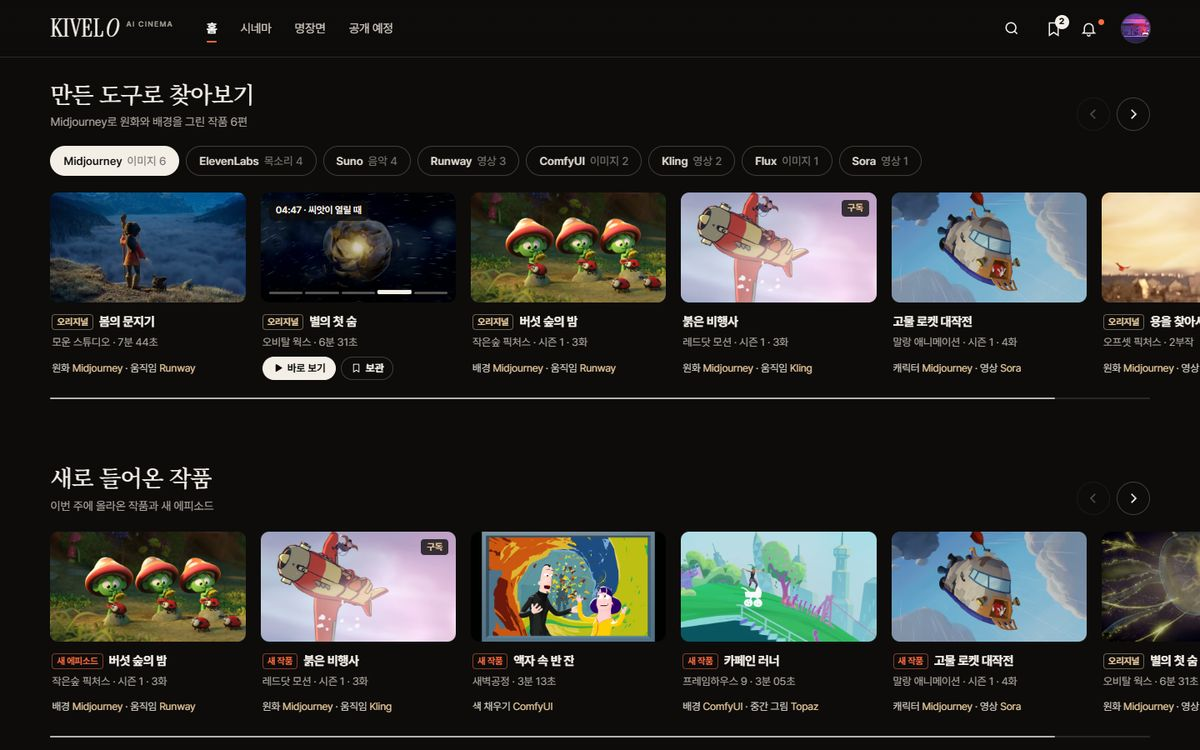
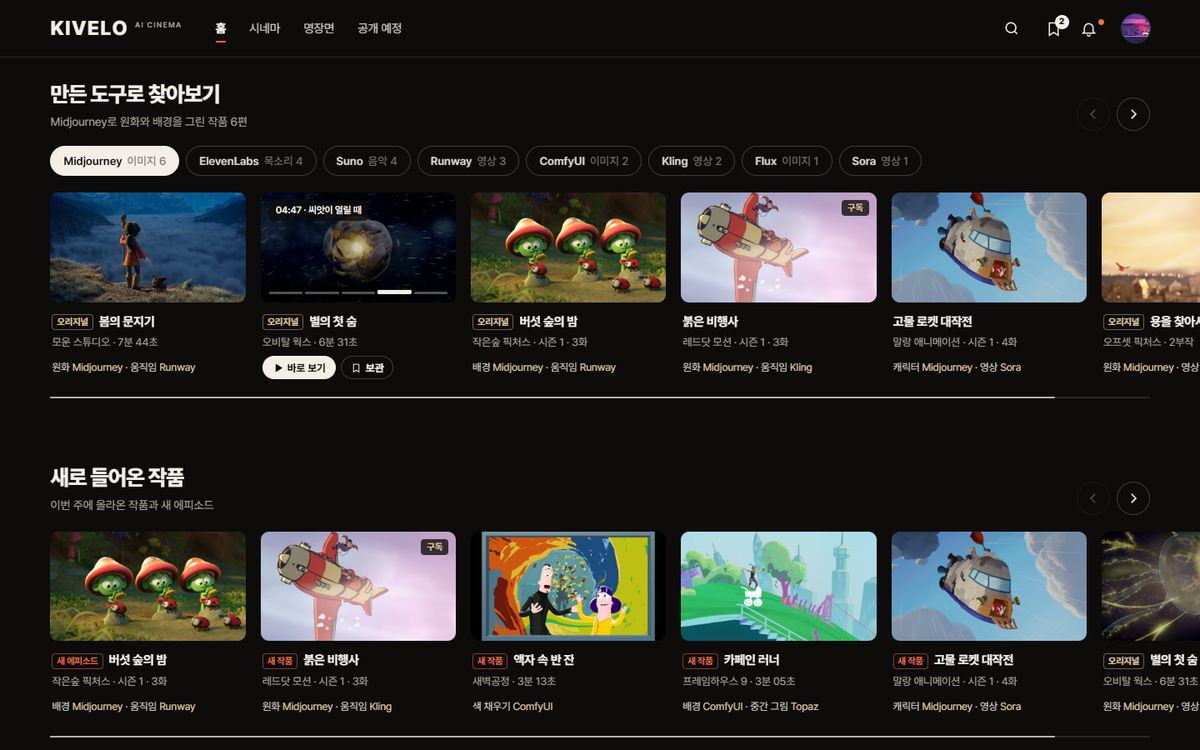
1안 글씨체를 고딕으로 바꾸고 만든 방식으로 고르기 구간을 뺌

diff --git a/a/a.css b/a/a.css
@@ -12,8 +12,6 @@
   --cream: #e6dccb;
   --gold: #e6c79a;
   --free: #58c27d;
-  --serif: "Instrument Serif", "Noto Serif KR", serif;
-  --kserif: "Noto Serif KR", "Instrument Serif", serif;
   --sans: "Pretendard Variable", Pretendard, -apple-system, BlinkMacSystemFont, "Apple SD Gothic Neo", "Malgun Gothic", sans-serif;
   --pad: clamp(20px, 4.2vw, 64px);
   --gap: 18px;
@@ -34,9 +32,9 @@ svg { display: block; }
 
 .nav { position: fixed; top: 0; left: 0; right: 0; z-index: 50; display: flex; align-items: center; gap: 40px; height: 68px; padding: 0 var(--pad); background: linear-gradient(180deg, rgba(13, 12, 11, .78), rgba(13, 12, 11, 0)); transition: background-color .45s, box-shadow .45s; }
 .nav.solid { background-color: var(--bg); box-shadow: 0 1px 0 var(--line); }
-.logo { font-family: var(--serif); font-size: 30px; letter-spacing: .02em; line-height: 1; display: flex; align-items: baseline; gap: 2px; flex: none; }
-.logo em { font-style: italic; }
-.logo sup { font-family: var(--sans); font-size: 9px; letter-spacing: .14em; font-weight: 600; color: var(--mute); margin-left: 6px; transform: translateY(-12px); }
+.logo { font-family: var(--sans); font-size: 24px; font-weight: 800; letter-spacing: .05em; line-height: 1; display: flex; align-items: baseline; gap: 0; flex: none; }
+.logo em { font-style: normal; }
+.logo sup { font-family: var(--sans); font-size: 9px; letter-spacing: .14em; font-weight: 600; color: var(--mute); margin-left: 8px; transform: translateY(-9px); }
 .menu { position: relative; display: flex; gap: 28px; font-size: 14.5px; }
 .menu a { padding: 10px 0; color: #cfc8bd; transition: color .2s; }
 .menu a:hover { color: #fff; }
@@ -105,10 +103,10 @@ svg { display: block; }
 .label-no { display: flex; align-items: center; gap: 10px; font-size: 13px; color: var(--mute); letter-spacing: .02em; }
 .label-no .live { width: 7px; height: 7px; border-radius: 50%; background: var(--ember); box-shadow: 0 0 0 4px rgba(255, 106, 61, .18); animation: pulse 2s infinite; }
 @keyframes pulse { 50% { box-shadow: 0 0 0 7px rgba(255, 106, 61, 0); } }
-.h-title { margin: 14px 0 0; font-family: var(--kserif); font-weight: 500; font-size: clamp(46px, 6.2vw, 96px); line-height: 1.04; letter-spacing: -0.035em; transform-origin: left bottom; transition: transform 1.1s var(--ease); }
+.h-title { margin: 14px 0 0; font-family: var(--sans); font-weight: 800; font-size: clamp(44px, 5.6vw, 86px); line-height: 1.08; letter-spacing: -0.045em; transform-origin: left bottom; transition: transform 1.1s var(--ease); }
 .h-title .ch { display: inline-block; opacity: 0; transform: translateY(.42em); animation: rise .9s var(--ease) forwards; }
 @keyframes rise { to { opacity: 1; transform: none; } }
-.h-en { margin: 10px 0 0; font-family: var(--serif); font-style: italic; font-size: clamp(18px, 1.6vw, 24px); color: var(--mute); display: flex; align-items: baseline; gap: 12px; flex-wrap: wrap; }
+.h-en { margin: 12px 0 0; font-family: var(--sans); font-style: normal; font-weight: 600; font-size: clamp(14px, 1.1vw, 16px); letter-spacing: .01em; color: var(--mute); display: flex; align-items: baseline; gap: 12px; flex-wrap: wrap; }
 .h-en .by { font-family: var(--sans); font-style: normal; font-size: 14px; color: #cfc8bd; padding-left: 12px; border-left: 1px solid var(--line2); }
 .h-fold { display: grid; grid-template-rows: 1fr; transition: grid-template-rows .9s var(--ease), opacity .7s; }
 .h-fold > div { min-height: 0; overflow: hidden; }
@@ -138,14 +136,14 @@ svg { display: block; }
 .hero-queue li.on .hq-bar i { animation: fill 12s linear forwards; }
 @keyframes fill { to { width: 100%; } }
 .hq-t { margin-top: 8px; font-size: 13px; display: flex; gap: 8px; }
-.hq-t b { font-family: var(--serif); font-weight: 400; color: var(--mute); }
+.hq-t b { font-weight: 700; color: var(--mute); }
 
 .browse { position: relative; z-index: 4; padding: 18px 0 20px; }
-body.searching .browse, body.searching .hero, body.searching .strip { display: none; }
+body.searching .browse, body.searching .hero { display: none; }
 .sec { margin: 0 0 clamp(52px, 5.4vw, 84px); scroll-margin-top: 84px; }
 .sec-h { margin: 0 var(--pad) 18px; display: flex; align-items: flex-end; justify-content: space-between; gap: 20px; }
 .sec-t { min-width: 0; }
-.sec-t h2 { margin: 0; font-family: var(--kserif); font-weight: 500; font-size: clamp(22px, 1.9vw, 30px); line-height: 1.25; letter-spacing: -0.035em; overflow: hidden; }
+.sec-t h2 { margin: 0; font-weight: 800; font-size: clamp(21px, 1.8vw, 28px); line-height: 1.3; letter-spacing: -0.035em; overflow: hidden; }
 .sec-t h2 span { display: inline-block; transform: translateY(105%); transition: transform .9s var(--ease); }
 .sec.in .sec-t h2 span { transform: none; }
 .sec-t p { margin: 6px 0 0; font-size: 14px; color: var(--mute); opacity: 0; transform: translateY(6px); transition: opacity .6s .15s, transform .7s .15s var(--ease); }
@@ -289,35 +287,9 @@ body.searching .browse, body.searching .hero, body.searching .strip { display: n
 .chr:hover .ch-go { opacity: 1; transform: none; }
 .ch-more { display: none; }
 
-.methods { margin: 0 var(--pad); display: grid; grid-template-columns: repeat(3, minmax(0, 1fr)); gap: var(--gap); }
-.mt { position: relative; min-height: 330px; padding: 24px; border-radius: 16px; background: var(--card); border: 1px solid var(--line); overflow: hidden; cursor: pointer; display: flex; flex-direction: column; justify-content: flex-end; text-align: left; opacity: 0; transform: translateY(24px); transition: opacity .7s, transform .9s var(--ease), border-color .3s, background-color .3s; }
-.sec.in .mt { opacity: 1; transform: none; }
-.sec.in .mt:nth-child(2) { transition-delay: .08s, .08s, 0s, 0s; }
-.sec.in .mt:nth-child(3) { transition-delay: .16s, .16s, 0s, 0s; }
-.mt:hover { border-color: var(--line2); background: #201e1c; }
-.mt-fan { position: absolute; left: 50%; top: 30px; width: 58%; aspect-ratio: 16/9; transform: translateX(-50%); }
-.mt-fan img { position: absolute; inset: 0; width: 100%; height: 100%; object-fit: cover; border-radius: 9px; box-shadow: 0 14px 34px rgba(0, 0, 0, .55); transform-origin: 50% 120%; transition: transform .8s var(--ease); }
-.mt-fan img:nth-child(1) { transform: translateX(-16%) rotate(-7deg) scale(.92); }
-.mt-fan img:nth-child(2) { transform: translateX(16%) rotate(7deg) scale(.92); }
-.mt-fan img:nth-child(3) { transform: translateY(6%); }
-.mt:hover .mt-fan img:nth-child(1) { transform: translateX(-46%) rotate(-13deg) scale(.88); }
-.mt:hover .mt-fan img:nth-child(2) { transform: translateX(46%) rotate(13deg) scale(.88); }
-.mt:hover .mt-fan img:nth-child(3) { transform: translateY(-4%) scale(1.06); }
-.mt-n { position: absolute; right: 18px; top: 16px; font-size: 13px; color: var(--mute); }
-.mt h3 { margin: 0; font-family: var(--kserif); font-weight: 500; font-size: 24px; letter-spacing: -0.035em; line-height: 1.25; }
-.mt p { margin: 8px 0 0; font-size: 14px; color: var(--mute); line-height: 1.5; }
-.mt-bar { margin-top: 16px; display: flex; height: 6px; border-radius: 3px; overflow: hidden; background: rgba(243, 238, 230, .14); }
-.mt-bar i { display: block; height: 100%; width: 0; background: var(--ember); transition: width 1.2s var(--ease) .3s; }
-.sec.in .mt-bar i { width: var(--ai); }
-.mt-leg { margin-top: 8px; display: flex; justify-content: space-between; font-size: 12.5px; color: var(--mute); }
-.mt-leg b { color: var(--text); font-weight: 600; }
-.looks { margin: 16px var(--pad) 0; display: flex; flex-wrap: wrap; gap: 8px; align-items: center; }
-.looks > span { font-size: 13px; color: var(--mute); margin-right: 6px; }
 .chip { position: relative; z-index: 1; height: 36px; padding: 0 15px; border-radius: 999px; border: 1px solid var(--line2); font-size: 13.5px; font-weight: 600; color: #ddd6cc; display: inline-flex; align-items: center; gap: 6px; white-space: nowrap; transition: color .3s, border-color .3s, background-color .25s; }
 .chip span { color: var(--dim); font-weight: 500; transition: color .3s; }
 .chip:hover { border-color: rgba(243, 238, 230, .45); }
-.looks .chip:hover { background: var(--text); color: var(--bg); border-color: var(--text); }
-.looks .chip:hover span { color: rgba(13, 12, 11, .55); }
 
 .mz-grid { margin: 0 var(--pad); display: grid; grid-template-columns: repeat(6, minmax(0, 1fr)); grid-template-rows: repeat(4, clamp(92px, 8.6vw, 140px)); gap: 10px; }
 .mz { position: relative; border-radius: 10px; overflow: hidden; background: var(--card); cursor: pointer; opacity: 0; transform: scale(.94); transition: opacity .7s, transform .9s var(--ease); }
@@ -328,7 +300,7 @@ body.searching .browse, body.searching .hero, body.searching .strip { display: n
 .mz-cap { position: absolute; z-index: 1; left: 12px; right: 12px; bottom: 10px; }
 .mz-cap em { display: inline-block; font-style: normal; font-size: 11px; font-weight: 700; padding: 1px 6px; border-radius: 4px; background: rgba(13, 12, 11, .7); margin-bottom: 4px; }
 .mz-cap b { display: block; font-size: 14px; font-weight: 700; line-height: 1.3; }
-.mz.big .mz-cap b { font-family: var(--kserif); font-weight: 500; font-size: clamp(18px, 1.6vw, 24px); letter-spacing: -0.03em; }
+.mz.big .mz-cap b { font-weight: 800; font-size: clamp(17px, 1.5vw, 22px); letter-spacing: -0.03em; }
 .mz-how { display: grid; grid-template-rows: 0fr; font-size: 12.5px; color: #ddd6cc; line-height: 1.45; opacity: 0; transition: grid-template-rows .4s var(--ease), opacity .3s; }
 .mz-how > span { min-height: 0; overflow: hidden; }
 .mz:hover .mz-how { grid-template-rows: 1fr; opacity: 1; }
@@ -402,7 +374,7 @@ body.searching .results { display: block; }
 .res-rel { display: flex; flex-wrap: wrap; gap: 6px; align-items: center; font-size: 13.5px; color: var(--mute); }
 .res-rel button { height: 30px; padding: 0 12px; border-radius: 999px; border: 1px solid var(--line); color: #ddd6cc; font-size: 13px; transition: background-color .2s, color .2s; }
 .res-rel button:hover { background: var(--text); color: var(--bg); }
-.res-title { margin: 0 0 6px; font-family: var(--kserif); font-weight: 500; font-size: clamp(26px, 2.6vw, 38px); letter-spacing: -0.035em; }
+.res-title { margin: 0 0 6px; font-weight: 800; font-size: clamp(24px, 2.4vw, 34px); letter-spacing: -0.035em; }
 .res-desc { margin: 0 0 26px; color: var(--mute); font-size: 15px; }
 .res-h { font-size: 15px; font-weight: 700; margin: 0 0 14px; color: #e5dfd5; }
 .res-grid { display: grid; grid-template-columns: repeat(5, minmax(0, 1fr)); gap: 30px var(--gap); margin-bottom: 46px; }
@@ -413,14 +385,6 @@ body.searching .results { display: block; }
 .res-empty { color: var(--mute); font-size: 15px; padding: 40px 0; }
 @media (max-width: 1099px) { .res-grid { grid-template-columns: repeat(3, minmax(0, 1fr)); } .res-grid.short-grid { grid-template-columns: repeat(5, minmax(0, 1fr)); } }
 
-.strip { position: relative; margin: 0 var(--pad); min-height: 300px; border-radius: 16px; overflow: hidden; display: flex; align-items: center; }
-.strip-bg { position: absolute; inset: 0; display: grid; grid-template-columns: repeat(6, 1fr); grid-auto-rows: 50%; gap: 4px; opacity: .55; transform: scale(1.06); transition: transform 8s linear; }
-.strip:hover .strip-bg { transform: scale(1); }
-.strip-bg img { width: 100%; height: 100%; object-fit: cover; }
-.strip::after { content: ""; position: absolute; inset: 0; background: linear-gradient(90deg, var(--bg) 18%, rgba(13, 12, 11, .82) 46%, rgba(13, 12, 11, .3)); }
-.strip-in { position: relative; z-index: 1; padding: 48px clamp(28px, 4vw, 64px); max-width: 640px; }
-.strip h2 { margin: 0; font-family: var(--kserif); font-weight: 500; font-size: clamp(28px, 2.8vw, 42px); line-height: 1.2; letter-spacing: -0.03em; }
-.strip p { margin: 14px 0 24px; color: #ddd6cc; font-size: 15.5px; }
 
 .foot { margin-top: clamp(60px, 7vw, 100px); padding: 54px var(--pad) 110px; border-top: 1px solid var(--line); display: grid; grid-template-columns: minmax(0, 1.8fr) repeat(2, minmax(0, 1fr)); gap: 30px 40px; font-size: 13.5px; color: var(--mute); }
 .foot-brand .logo { font-size: 26px; color: var(--text); }
@@ -458,7 +422,7 @@ body.searching .results { display: block; }
 .nt-media .vmute { position: absolute; z-index: 2; right: 14px; bottom: 14px; width: 36px; height: 36px; border-radius: 50%; background: rgba(13, 12, 11, .7); display: grid; place-items: center; }
 .nt-media .vmute svg { width: 17px; height: 17px; }
 .nt-head { padding: 24px 24px 0; }
-.nt-title { margin: 0; font-family: var(--kserif); font-weight: 500; font-size: clamp(30px, 3vw, 44px); line-height: 1.12; letter-spacing: -0.035em; }
+.nt-title { margin: 0; font-weight: 800; font-size: clamp(28px, 2.8vw, 40px); line-height: 1.15; letter-spacing: -0.04em; }
 .nt-en { margin-top: 6px; font-size: 13px; color: var(--dim); letter-spacing: .03em; }
 .nt-meta { margin-top: 14px; display: flex; flex-wrap: wrap; align-items: center; gap: 6px 0; font-size: 14px; color: #ddd6cc; }
 .nt-meta > * + *::before { content: ""; display: inline-block; width: 1px; height: 11px; background: var(--line2); margin: 0 11px; vertical-align: -1px; }
@@ -630,11 +594,6 @@ body.searching .results { display: block; }
   .chart:not(.open) .chr:nth-child(n + 6) { display: none; }
   .ch-more { display: flex; justify-content: center; margin: 12px var(--pad) 0; }
   .ch-more button { height: 38px; padding: 0 18px; border-radius: 999px; border: 1px solid var(--line2); font-size: 13.5px; font-weight: 600; }
-  .methods { display: flex; overflow-x: auto; scroll-snap-type: x mandatory; scrollbar-width: none; margin: 0; padding: 0 var(--pad); gap: 10px; }
-  .methods::-webkit-scrollbar { display: none; }
-  .mt { flex: 0 0 78vw; min-height: 300px; scroll-snap-align: start; }
-  .looks { flex-wrap: nowrap; overflow-x: auto; scrollbar-width: none; margin: 14px 0 0; padding: 0 var(--pad); }
-  .looks::-webkit-scrollbar { display: none; }
   .mz-grid { grid-template-columns: repeat(2, minmax(0, 1fr)); grid-template-rows: none; grid-auto-rows: 26vw; grid-auto-flow: dense; gap: 8px; }
   .mz { grid-column: auto !important; grid-row: auto !important; }
   .mz.big { grid-column: span 2 !important; grid-row: span 2 !important; }
@@ -650,10 +609,6 @@ body.searching .results { display: block; }
   .planbar { flex-wrap: wrap; padding: 16px; gap: 14px; margin-bottom: 44px; }
   .planbar p { flex-basis: calc(100% - 120px); }
   .planbar .btn { width: 100%; justify-content: center; }
-  .strip { min-height: 0; }
-  .strip-in { padding: 30px 22px; }
-  .strip-bg { grid-template-columns: repeat(3, 1fr); }
-  .strip::after { background: linear-gradient(180deg, rgba(13, 12, 11, .55), var(--bg) 85%); }
   .foot { grid-template-columns: 1fr 1fr; padding: 40px var(--pad) 120px; gap: 26px 20px; }
   .foot-brand { grid-column: 1 / -1; }
   .results { padding-top: 116px; }

diff --git a/a/a.js b/a/a.js
@@ -42,12 +42,6 @@
   var MOVE = { spring: ['same'], charge: ['up', 2], sprite: ['new'], singularity: ['dn', 1], sintel: ['up', 1], wingit: ['dn', 2], hero: ['new'], coffee: ['same'], glass: ['up', 3] };
   var LIST = ['glass', 'coffee'];
   var LIKE = {};
-  var METH = [
-    { k: 'ai', t: 'AI로 만든 작품', d: '그림과 영상 대부분을 AI로 만들고, 각본과 편집은 사람이 맡았습니다' },
-    { k: 'mix', t: '사람과 AI가 함께 만든 작품', d: '사람이 그린 원화와 연기에 AI가 움직임과 배경을 더했습니다' },
-    { k: 'human', t: '사람이 만들고 AI가 거든 작품', d: '그림과 움직임은 사람이, 배경과 색 채우기 일부만 AI가 했습니다' }
-  ];
-  var LOOKS = [['real', '실사풍'], ['paint', '회화풍'], ['toon', '3D 카툰'], ['flat', '2D 손그림'], ['abstract', '3D 추상']];
   var TOOLD = { '이미지': '원화와 배경을 그린 작품', '영상': '움직임을 만든 작품', '목소리': '목소리를 입힌 작품', '음악': '음악을 만든 작품', '보정': '화면을 다듬은 작품' };
 
   function age(w) { return w.rating === '전체관람가' ? '전체' : w.rating.replace('세 이상', '+'); }
@@ -207,14 +201,6 @@
     return '<a class="chr" href="work.html?id=' + id + '" data-id="' + id + '" data-kind="work" style="--i:' + i + ';--n:' + (i + 1) + '"><span class="ch-n" aria-label="' + (i + 1) + '위"><span aria-hidden="true">' + dg + '</span></span>' + mvh +
       '<span class="ch-pic"><img src="' + w.wide + '" alt="" loading="lazy"><video muted playsinline loop preload="none" data-src="' + w.prev + '"></video></span>' +
       '<span class="ch-b"><b>' + esc(w.title) + '</b><span>' + esc(c.name) + ' · ' + esc(w.genre) + '</span><em>' + esc(madeText(w, 3)) + '</em></span><span class="ch-go">' + I.play + '</span></a>';
-  }
-  function mtHTML(m) {
-    var ws = K.works.filter(function (w) { return w.methodKey === m.k; });
-    var avg = Math.round(ws.reduce(function (a, w) { return a + K.aiShare(w); }, 0) / Math.max(1, ws.length));
-    var pics = ws.map(function (w) { return w.wide; });
-    if (pics.length < 3) pics.push(ws[0].scenes[1].img);
-    return '<button class="mt" type="button" data-act="method" data-m="' + m.k + '"><span class="mt-fan"><img src="' + pics[1] + '" alt="" loading="lazy"><img src="' + pics[2] + '" alt="" loading="lazy"><img src="' + pics[0] + '" alt="" loading="lazy"></span>' +
-      '<span class="mt-n">' + ws.length + '편</span><h3>' + esc(m.t) + '</h3><p>' + esc(m.d) + '</p><span class="mt-bar" style="--ai:' + avg + '%"><i></i></span><span class="mt-leg"><span>AI가 맡은 공정 평균 <b>' + avg + '%</b></span><span>보러 가기 ›</span></span></button>';
   }
   function mzHTML(w, j, cls, area, i) {
     var s = w.scenes[j];
@@ -417,11 +403,6 @@
       body: '<div class="pane on" data-pane="cont">' + railHTML(CONT.map(cCont).join('')) + '</div><div class="pane" data-pane="keep">' + railHTML(LIST.length ? LIST.map(function (id) { return cWork(W(id)); }).join('') : cEmpty()) + '</div>' });
     html += secHTML({ key: 'chart', type: 'chart', title: '이번 주 많이 본 작품', desc: fine ? '지난 7일 동안 많이 본 순서입니다. 마우스를 올리면 바로 미리 봅니다' : '지난 7일 동안 많이 본 순서입니다',
       body: '<div class="chart" id="chart">' + TOP.map(chRow).join('') + '</div><div class="ch-more"><button type="button" data-act="chmore">6~9위 더 보기</button></div>' });
-    html += secHTML({ key: 'method', type: 'method', title: '만든 방식으로 고르기', desc: '같은 AI 영상이라도 사람이 맡은 몫이 다릅니다',
-      body: '<div class="methods">' + METH.map(mtHTML).join('') + '</div><div class="looks"><span>화풍으로 고르기</span>' + LOOKS.map(function (l) {
-        var n = K.works.filter(function (w) { return w.lookKey === l[0]; }).length;
-        return '<button class="chip" type="button" data-act="look" data-l="' + l[0] + '">' + l[1] + '<span>' + n + '</span></button>';
-      }).join('') + '</div>' });
     html += secHTML({ key: 'orig', type: 'tall', title: '키벨로 오리지널', desc: '키벨로가 창작자와 함께 기획한 작품', reveal: 1, arrows: 1,
       body: railHTML(['spring', 'charge', 'singularity', 'sprite', 'sintel'].map(function (id) { return cWork(W(id), { tall: 1, noOrig: 1 }); }).join('')) });
     html += secHTML({ key: 'shorts', type: 'shorts', title: '쇼츠', desc: '짧게 보고, 마음에 들면 그 장면부터 본편으로 이어 봅니다', reveal: 1, arrows: 1,
@@ -452,8 +433,6 @@
       var io = new IntersectionObserver(function (es) { es.forEach(function (e) { if (e.isIntersecting) { e.target.classList.add('in'); io.unobserve(e.target); } }); }, { threshold: 0.12 });
       $$('#browse .sec').forEach(function (r) { io.observe(r); });
     } else $$('#browse .sec').forEach(function (r) { r.classList.add('in'); });
-    var sb = $('#stripBg');
-    if (sb) sb.innerHTML = ['spring_1', 'charge_3', 'singularity_1', 'sprite_2', 'sintel_2', 'hero_2', 'wingit_3', 'coffee_1', 'glass_1', 'spring_4', 'singularity_3', 'charge_5'].map(function (n) { return '<img src="' + M + 'scene/' + n + '.jpg" alt="" loading="lazy">'; }).join('');
     if (location.hash === '#keep') setTimeout(openKeep, 120);
   }
 
@@ -724,8 +703,6 @@
       if (act === 'share') { toast('작품 주소를 복사했어요'); return; }
       if (act === 'mute') { var vv = $('#ntMedia video'); if (vv) { vv.muted = !vv.muted; t.innerHTML = vv.muted ? I.volx : I.vol; } return; }
       if (act === 'creator') { e.preventDefault(); var cr = K.creators[t.dataset.cr]; closeNote(); setTimeout(function () { runSearch(cr.name); }, 380); return; }
-      if (act === 'method') { showMethod(t.dataset.m); return; }
-      if (act === 'look') { showLook(t.dataset.l); return; }
       if (act === 'tool') { setTool(t.dataset.t); return; }
       if (act === 'allscenes') { showAllScenes(); return; }
       if (act === 'epsoon') { toast(t.dataset.when + '. 알림을 켜 두면 공개될 때 알려 드릴게요'); return; }
@@ -783,17 +760,6 @@
   function backBar(rel) {
     return '<div class="res-top"><button class="res-back" type="button" data-home>' + I.left + '홈으로</button>' +
       (rel && rel.length ? '<div class="res-rel"><span>관련</span>' + rel.map(function (k) { return '<button type="button" data-q="' + esc(k) + '">' + esc(k) + '</button>'; }).join('') + '</div>' : '') + '</div>';
-  }
-  function showSet(title, desc, ws) {
-    showResults(backBar() + '<h2 class="res-title">' + esc(title) + '</h2><p class="res-desc">' + esc(desc) + '</p><div class="res-grid">' + ws.map(function (w) { return cWork(w); }).join('') + '</div>');
-  }
-  function showMethod(k) {
-    var m = METH.filter(function (x) { return x.k === k; })[0];
-    showSet(m.t, m.d, K.works.filter(function (w) { return w.methodKey === k; }));
-  }
-  function showLook(l) {
-    var lb = LOOKS.filter(function (x) { return x[0] === l; })[0];
-    showSet(lb[1] + ' 작품', '화풍이 ' + lb[1] + '인 작품을 모았습니다', K.works.filter(function (w) { return w.lookKey === l; }));
   }
   function showAllScenes() {
     var h = '';

diff --git a/index.html b/index.html
@@ -132,7 +132,7 @@ h1 { margin: 0; font-size: clamp(34px, 4.6vw, 64px); line-height: 1.18; letter-s
       <h3>작품이 많지 않은 초기에도<br>풍성하고 믿음직하게</h3>
       <p>흔한 OTT처럼 작품 줄을 세우면 금방 바닥이 보입니다. 적은 작품으로도 볼 것이 많아 보이고, 믿고 볼 수 있어야 합니다.</p>
       <ul>
-        <li><b class="a">1안</b><span>같은 작품을 순위·만든 방식·만든 도구로 다시 묶고, 명장면 모자이크로 작품 9편을 장면 36개로 보여 줍니다</span></li>
+        <li><b class="a">1안</b><span>같은 작품을 순위·만든 도구로 다시 묶고, 명장면 모자이크로 작품 9편을 장면 36개로 보여 줍니다</span></li>
         <li><b class="b">2안</b><span>매주 개봉과 상영 시간표로 ‘기다렸다 보는’ 이유를 만듭니다</span></li>
         <li><b class="c">3안</b><span>대화로 딱 세 편만 골라 주니, 작품 수가 적어도 자연스럽습니다</span></li>
         <li><b>공통</b><span>모든 작품에 ‘운영 검수 완료 · 권리 자료 확인’ 표시</span></li>
@@ -181,13 +181,13 @@ h1 { margin: 0; font-size: clamp(34px, 4.6vw, 64px); line-height: 1.18; letter-s
     <div class="how">
       <h3>이 안의 풀이</h3>
       <ul>
-        <li><b>홈</b> — 메인 배너(오늘의 상영 3편, 그대로) → 내 감상(이어서 보기·보관함) → 이번 주 많이 본 작품(순위표) → 만든 방식으로 고르기 → 키벨로 오리지널 → 쇼츠(누르면 본편 상세) → 명장면 모자이크 → 만든 도구로 찾아보기 → 새로 들어온 작품 → 공개 예정 → 창작자</li>
+        <li><b>홈</b> — 메인 배너(오늘의 상영 3편, 그대로) → 내 감상(이어서 보기·보관함) → 이번 주 많이 본 작품(순위표) → 키벨로 오리지널 → 쇼츠(누르면 본편 상세) → 명장면 모자이크 → 만든 도구로 찾아보기 → 새로 들어온 작품 → 공개 예정 → 창작자</li>
         <li><b>카드</b> — 마우스를 좌우로 움직이면 장면이 바뀌며 시각과 장면 이름이 뜨고, 멈추면 영상이 나옵니다. 아래에 바로 보기·보관 버튼, 줄은 끌어서 넘깁니다</li>
         <li><b>작품 노트</b> — 누른 그림이 날아가며 오른쪽에서 열림: 개요, 회차(누르면 바로 재생, 공개 전 회차는 공개일), 만든 과정(공정마다 사람·AI·도구), 장면으로 보기, 비슷한 작품(고른 이유 표시)</li>
         <li><b>재생</b> — 진행 막대가 장면 단위로 나뉘고 막대 위에서 장면 미리보기, ‘장면 정보’를 켜면 지금 장면을 무엇으로 만들었는지, 끝나면 만든 과정과 다음으로 볼 작품 두 편</li>
         <li><b>그 밖에</b> — 제목·창작자·만든 도구로 검색(예: Runway), 보관하면 그림이 보관함으로 날아감, 도구를 바꾸면 작품이 바뀌어 들어옴, 순위 숫자가 굴러 올라감</li>
       </ul>
-      <div class="pc2"><div class="good"><b>좋은 점</b>작품 줄을 넘겨 보는 익숙한 구성이라 처음 온 사람도 헤매지 않습니다. 같은 9편을 순위·만든 방식·도구·장면으로 다시 묶어 화면이 꽉 차고, 장면 훑어보기와 만든 과정이 키벨로다움을 보여 줍니다.</div><div class="care"><b>고려할 점</b>장면 훑어보기와 명장면은 작품마다 장면 사진이 있어야 합니다. 창작자가 올릴 때 장면을 고르게 하고, 고르지 않으면 영상에서 자동으로 뽑습니다.</div></div>
+      <div class="pc2"><div class="good"><b>좋은 점</b>작품 줄을 넘겨 보는 익숙한 구성이라 처음 온 사람도 헤매지 않습니다. 같은 9편을 순위·도구·장면으로 다시 묶어 화면이 꽉 차고, 장면 훑어보기와 만든 과정이 키벨로다움을 보여 줍니다.</div><div class="care"><b>고려할 점</b>장면 훑어보기와 명장면은 작품마다 장면 사진이 있어야 합니다. 창작자가 올릴 때 장면을 고르게 하고, 고르지 않으면 영상에서 자동으로 뽑습니다.</div></div>
       <p class="refs">메인 배너는 기존 1안 그대로입니다. 카드·작품 노트·재생 화면은 키벨로 제작정보를 중심으로 새로 그렸습니다.</p>
     </div>
   </div>

diff --git a/a/index.html b/a/index.html
@@ -5,8 +5,6 @@
 <meta name="viewport" content="width=device-width, initial-scale=1, viewport-fit=cover">
 <meta name="robots" content="noindex,nofollow">
 <title>KIVELO — 시안 1 · AI 영상관</title>
-<link rel="preconnect" href="https://fonts.googleapis.com"><link rel="preconnect" href="https://fonts.gstatic.com" crossorigin>
-<link href="https://fonts.googleapis.com/css2?family=Instrument+Serif:ital@0;1&family=Noto+Serif+KR:wght@500;600&display=swap" rel="stylesheet">
 <link rel="stylesheet" href="https://cdn.jsdelivr.net/gh/orioncactus/pretendard@v1.3.9/dist/web/variable/pretendardvariable-dynamic-subset.min.css">
 <link rel="stylesheet" href="a.css">
 </head>
@@ -15,7 +13,7 @@
   <a class="logo" href="index.html" aria-label="KIVELO 홈">KIVEL<em>O</em><sup>AI CINEMA</sup></a>
   <nav class="menu" id="menu" aria-label="주 메뉴">
     <a class="on" href="index.html">홈</a>
-    <a href="#sec-method">시네마</a>
+    <a href="#sec-orig">시네마</a>
     <a href="#sec-scene">명장면</a>
     <a href="#sec-soon">공개 예정</a>
     <i class="menu-ind" aria-hidden="true"></i>
@@ -44,7 +42,7 @@
     </div>
   </div>
 </header>
-<nav class="mtabs" id="mtabs" aria-label="보기"><a class="on" href="index.html">홈</a><a href="#sec-method">시네마</a><a href="#sec-scene">명장면</a><a href="#sec-soon">공개 예정</a></nav>
+<nav class="mtabs" id="mtabs" aria-label="보기"><a class="on" href="index.html">홈</a><a href="#sec-orig">시네마</a><a href="#sec-scene">명장면</a><a href="#sec-soon">공개 예정</a></nav>
 
 <section class="hero" id="hero" aria-label="오늘의 상영">
   <div class="hero-media" id="heroMedia"></div>
@@ -60,7 +58,7 @@
     <a class="logo" href="index.html">KIVEL<em>O</em></a>
     <p>AI로 만든 영화와 애니메이션을 모아 상영합니다. 작품마다 무엇을 사람이 만들고 무엇을 AI로 만들었는지 함께 보여 드립니다.</p>
   </div>
-  <div class="foot-col"><b>보기</b><a href="#sec-method">시네마</a><a href="#sec-scene">명장면</a><a href="#sec-soon">공개 예정</a></div>
+  <div class="foot-col"><b>보기</b><a href="#sec-orig">시네마</a><a href="#sec-scene">명장면</a><a href="#sec-soon">공개 예정</a></div>
   <div class="foot-col"><b>도움</b><a href="#">자주 묻는 질문</a><a href="#">구독 안내</a><a href="#">고객 센터</a><a href="#">광고 문의</a></div>
   <div class="foot-legal"><a href="#">이용 약관</a><a href="#">개인정보 처리방침</a><a href="#">청소년 보호 정책</a><span>키벨로 · 고객 센터 평일 10:00~18:00</span></div>
   <p class="note">시안용 화면입니다. 작품 제목·창작자·제작정보·숫자는 화면 구성을 보여주기 위한 가상의 예시입니다. 영상과 이미지는 Blender Foundation의 오픈 무비(CC BY 3.0·4.0) 장면을 잘라 썼습니다 — Spring, Charge, Singularity, Sprite Fright, Coffee Run, Hero, Wing It!, Glass Half, Sintel · © Blender Foundation | studio.blender.org</p>

diff --git a/a/work.html b/a/work.html
@@ -5,8 +5,6 @@
 <meta name="viewport" content="width=device-width, initial-scale=1, viewport-fit=cover">
 <meta name="robots" content="noindex,nofollow">
 <title>작품 — KIVELO 시안 1</title>
-<link rel="preconnect" href="https://fonts.googleapis.com"><link rel="preconnect" href="https://fonts.gstatic.com" crossorigin>
-<link href="https://fonts.googleapis.com/css2?family=Instrument+Serif:ital@0;1&family=Noto+Serif+KR:wght@500;600&display=swap" rel="stylesheet">
 <link rel="stylesheet" href="https://cdn.jsdelivr.net/gh/orioncactus/pretendard@v1.3.9/dist/web/variable/pretendardvariable-dynamic-subset.min.css">
 <link rel="stylesheet" href="a.css">
 </head>
@@ -15,7 +13,7 @@
   <a class="logo" href="index.html" aria-label="KIVELO 홈">KIVEL<em>O</em><sup>AI CINEMA</sup></a>
   <nav class="menu" id="menu" aria-label="주 메뉴">
     <a class="on" href="index.html">홈</a>
-    <a href="#sec-method">시네마</a>
+    <a href="#sec-orig">시네마</a>
     <a href="#sec-scene">명장면</a>
     <a href="#sec-soon">공개 예정</a>
     <i class="menu-ind" aria-hidden="true"></i>
@@ -44,7 +42,7 @@
     </div>
   </div>
 </header>
-<nav class="mtabs" id="mtabs" aria-label="보기"><a class="on" href="index.html">홈</a><a href="#sec-method">시네마</a><a href="#sec-scene">명장면</a><a href="#sec-soon">공개 예정</a></nav>
+<nav class="mtabs" id="mtabs" aria-label="보기"><a class="on" href="index.html">홈</a><a href="#sec-orig">시네마</a><a href="#sec-scene">명장면</a><a href="#sec-soon">공개 예정</a></nav>
 
 <section class="hero" id="hero" aria-label="오늘의 상영">
   <div class="hero-media" id="heroMedia"></div>
@@ -60,7 +58,7 @@
     <a class="logo" href="index.html">KIVEL<em>O</em></a>
     <p>AI로 만든 영화와 애니메이션을 모아 상영합니다. 작품마다 무엇을 사람이 만들고 무엇을 AI로 만들었는지 함께 보여 드립니다.</p>
   </div>
-  <div class="foot-col"><b>보기</b><a href="#sec-method">시네마</a><a href="#sec-scene">명장면</a><a href="#sec-soon">공개 예정</a></div>
+  <div class="foot-col"><b>보기</b><a href="#sec-orig">시네마</a><a href="#sec-scene">명장면</a><a href="#sec-soon">공개 예정</a></div>
   <div class="foot-col"><b>도움</b><a href="#">자주 묻는 질문</a><a href="#">구독 안내</a><a href="#">고객 센터</a><a href="#">광고 문의</a></div>
   <div class="foot-legal"><a href="#">이용 약관</a><a href="#">개인정보 처리방침</a><a href="#">청소년 보호 정책</a><span>키벨로 · 고객 센터 평일 10:00~18:00</span></div>
   <p class="note">시안용 화면입니다. 작품 제목·창작자·제작정보·숫자는 화면 구성을 보여주기 위한 가상의 예시입니다. 영상과 이미지는 Blender Foundation의 오픈 무비(CC BY 3.0·4.0) 장면을 잘라 썼습니다 — Spring, Charge, Singularity, Sprite Fright, Coffee Run, Hero, Wing It!, Glass Half, Sintel · © Blender Foundation | studio.blender.org</p>

diff --git a/a/play.css b/a/play.css
@@ -61,7 +61,7 @@ body.wbody { background: #000; overflow: hidden; }
 .ad-top { position: absolute; left: 30px; top: 26px; display: flex; gap: 10px; align-items: center; font-size: 14px; }
 .ad-tag { background: #ffd84a; color: #111; font-weight: 800; font-size: 12px; padding: 3px 8px; border-radius: 3px; }
 .ad-mid { position: absolute; left: 50%; top: 50%; transform: translate(-50%, -50%); text-align: center; width: min(520px, 86vw); }
-.ad-mid b { display: block; font-family: var(--kserif); font-weight: 500; font-size: clamp(26px, 3vw, 38px); }
+.ad-mid b { display: block; font-weight: 800; font-size: clamp(24px, 2.8vw, 34px); letter-spacing: -0.03em; }
 .ad-mid span { display: block; margin-top: 12px; color: var(--mute); font-size: 15px; }
 .ad-sub { position: absolute; left: 30px; bottom: 30px; font-size: 14px; color: #ddd; border-bottom: 1px solid rgba(255, 255, 255, .3); }
 .ad-skip { position: absolute; right: 30px; bottom: 26px; height: 50px; padding: 0 22px 0 12px; display: flex; align-items: center; gap: 10px; background: rgba(0, 0, 0, .65); border: 1px solid rgba(255, 255, 255, .35); font-size: 15px; font-weight: 700; }
@@ -76,7 +76,7 @@ body.wbody { background: #000; overflow: hidden; }
 .wp-end.on { opacity: 1; pointer-events: auto; }
 .wp.ended .wp-top, .wp.ended .wp-bottom, .wp.ended .wp-x { opacity: 0; pointer-events: none; }
 .we-k { display: block; font-size: 13px; color: var(--mute); }
-.we-l h2 { margin: 8px 0 0; font-family: var(--kserif); font-weight: 500; font-size: clamp(36px, 4.2vw, 64px); line-height: 1.08; letter-spacing: -0.035em; opacity: 0; transform: translateY(18px); transition: opacity .7s .1s, transform .9s .1s var(--ease); }
+.we-l h2 { margin: 8px 0 0; font-weight: 800; font-size: clamp(34px, 4vw, 58px); line-height: 1.1; letter-spacing: -0.045em; opacity: 0; transform: translateY(18px); transition: opacity .7s .1s, transform .9s .1s var(--ease); }
 .we-l p { margin: 10px 0 28px; color: var(--mute); font-size: 15px; }
 .wp-end.on .we-l h2 { opacity: 1; transform: none; }
 .we-mk { max-width: 600px; }
@@ -187,7 +187,7 @@ body.sbody { overflow: hidden; }
 .sr-play { position: absolute; z-index: 2; left: 10px; bottom: 10px; display: inline-flex; align-items: center; gap: 6px; height: 30px; padding: 0 12px 0 10px; border-radius: 999px; background: var(--text); color: var(--bg); font-size: 12.5px; font-weight: 700; transition: transform .35s var(--ease); }
 .sr-play svg { width: 11px; height: 11px; }
 .sr-work:hover .sr-play { transform: translateX(3px); }
-.sr-t { display: block; margin-top: 10px; font-family: var(--kserif); font-weight: 500; font-size: 22px; letter-spacing: -0.03em; }
+.sr-t { display: block; margin-top: 10px; font-weight: 800; font-size: 20px; letter-spacing: -0.03em; }
 .sr-log { margin: 12px 0 0; font-size: 14px; color: #ddd6cc; line-height: 1.55; }
 .sr-from { margin: 10px 0 0; font-size: 13px; color: var(--mute); line-height: 1.55; }
 .sr-from b { color: var(--text); }

diff --git a/a/shorts.html b/a/shorts.html
@@ -5,8 +5,6 @@
 <meta name="viewport" content="width=device-width, initial-scale=1, viewport-fit=cover">
 <meta name="robots" content="noindex,nofollow">
 <title>쇼츠 — KIVELO 시안 1</title>
-<link rel="preconnect" href="https://fonts.googleapis.com"><link rel="preconnect" href="https://fonts.gstatic.com" crossorigin>
-<link href="https://fonts.googleapis.com/css2?family=Instrument+Serif:ital@0;1&family=Noto+Serif+KR:wght@500;600&display=swap" rel="stylesheet">
 <link rel="stylesheet" href="https://cdn.jsdelivr.net/gh/orioncactus/pretendard@v1.3.9/dist/web/variable/pretendardvariable-dynamic-subset.min.css">
 <link rel="stylesheet" href="a.css">
 <link rel="stylesheet" href="play.css">
@@ -16,7 +14,7 @@
   <a class="logo" href="index.html" aria-label="KIVELO 홈">KIVEL<em>O</em><sup>AI CINEMA</sup></a>
   <nav class="menu" id="menu" aria-label="주 메뉴">
     <a href="index.html">홈</a>
-    <a href="index.html#sec-method">시네마</a>
+    <a href="index.html#sec-orig">시네마</a>
     <a class="on" href="shorts.html">쇼츠</a>
     <a href="index.html#sec-scene">명장면</a>
     <a href="index.html#sec-soon">공개 예정</a>

diff --git a/a/watch.html b/a/watch.html
@@ -5,8 +5,6 @@
 <meta name="viewport" content="width=device-width, initial-scale=1, viewport-fit=cover">
 <meta name="robots" content="noindex,nofollow">
 <title>재생 — KIVELO 시안 1</title>
-<link rel="preconnect" href="https://fonts.googleapis.com"><link rel="preconnect" href="https://fonts.gstatic.com" crossorigin>
-<link href="https://fonts.googleapis.com/css2?family=Instrument+Serif:ital@0;1&family=Noto+Serif+KR:wght@500;600&display=swap" rel="stylesheet">
 <link rel="stylesheet" href="https://cdn.jsdelivr.net/gh/orioncactus/pretendard@v1.3.9/dist/web/variable/pretendardvariable-dynamic-subset.min.css">
 <link rel="stylesheet" href="a.css">
 <link rel="stylesheet" href="play.css">
